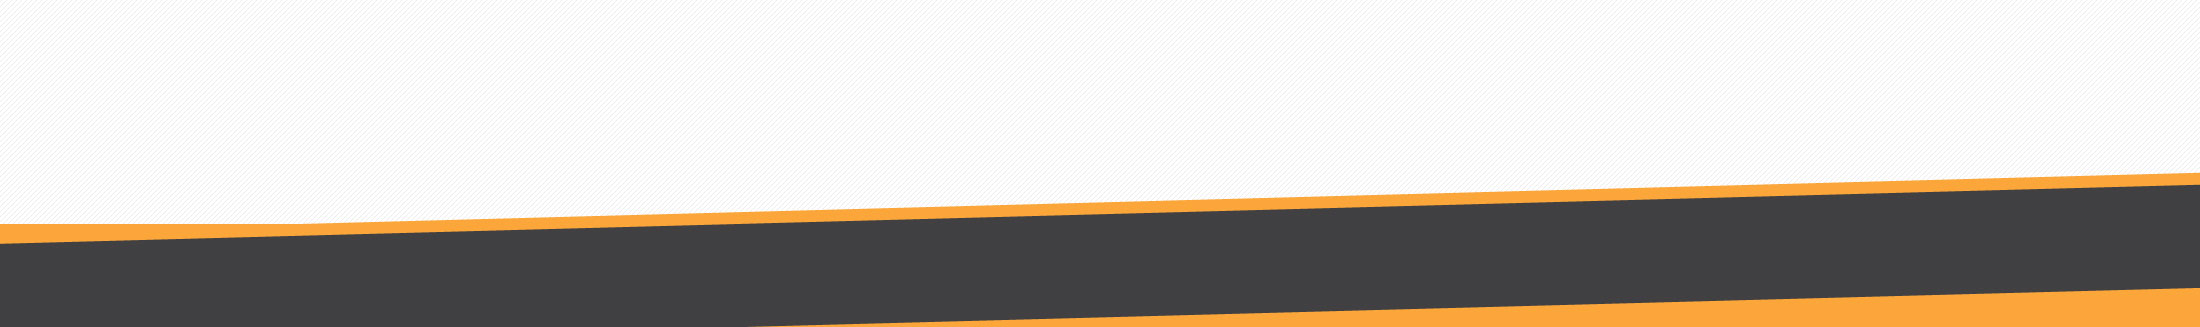
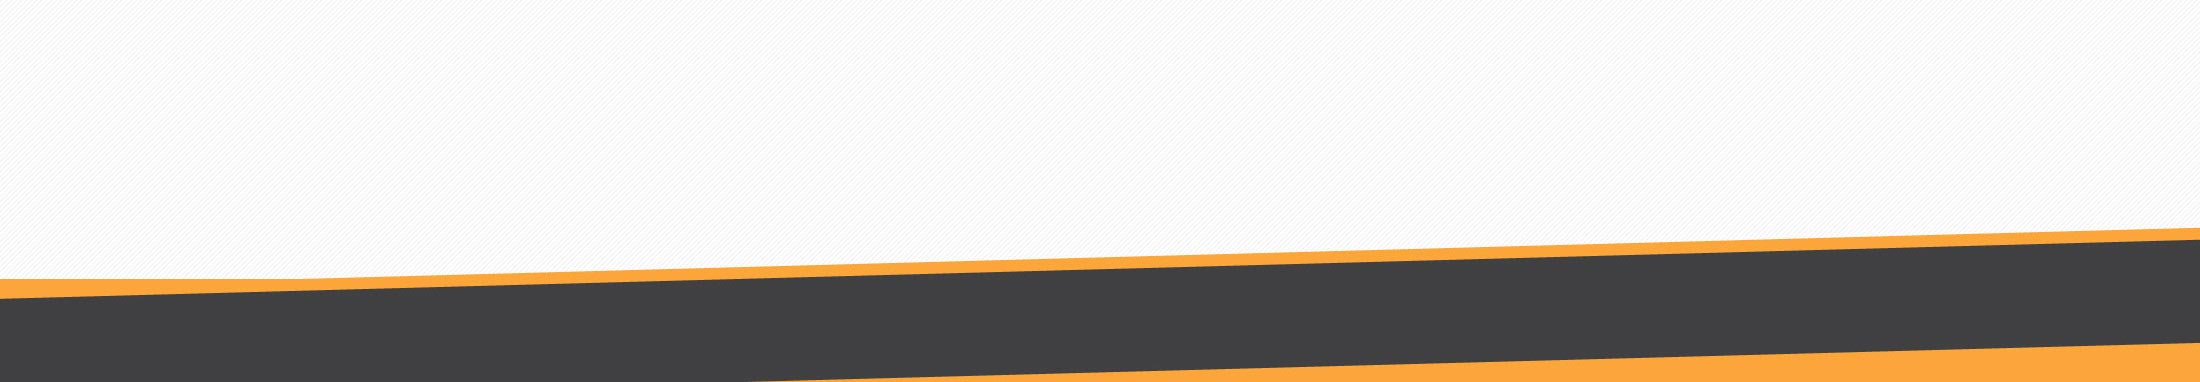
Updated footer

Changed region(s): [[0.0, 0.5199, 1.0, 0.7951], [0.34, 0.8563, 1.0, 1.0]]

diff --git a/Web/Content/Site.css b/Web/Content/Site.css
@@ -233,7 +233,7 @@ hr {
 .rodapeGeral {
     bottom: 0;
     width: 100%;
-    height: 327px;
+    height: 382px;
     background-image: url('../Images/fnd-rodape.jpg');
     display: table;
     position: absolute;
@@ -241,7 +241,7 @@ hr {
 
 .rodape {
     width: 960px;
-    height: 327px;
+    height: 382px;
     margin: auto;
 }
 
